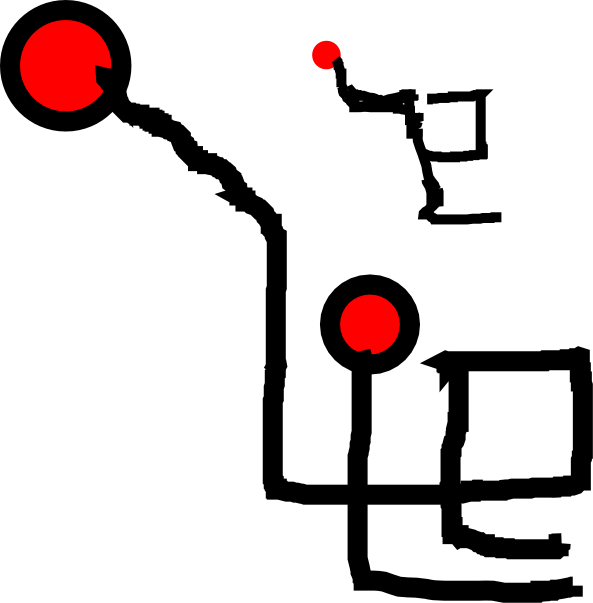
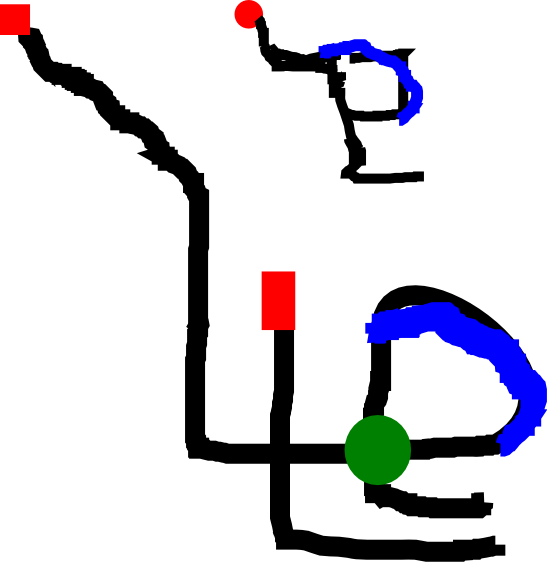
using colors hardcoded colors to find the clusters

Changed region(s): [[0.0, 0.0, 1.0, 1.0], [0.404, 0.0, 0.8391, 0.3932]]

diff --git a/pulse_programming.py b/pulse_programming.py
@@ -3,51 +3,56 @@ import numpy as np
 import cv2
 import scipy.cluster.vq as vq
 
-NUMBER_OF_COLORS = 2
+NUMBER_OF_COLORS = 3
 NUMBER_OF_COLORS += 1 # add background color
 
 image = cv2.imread("pathxxx.png")
 DIMENSIONS = (len(image), len(image[0]))
 
 image = cv2.GaussianBlur(image, (5, 5), 0)
-
+codebook_raw = [[50,50,50], [150,150,150], [50,0,0], [0,50,0], [0,0,50]]
 flat_colors = image.reshape((-1, 3))
-maximum_bright_colors = flat_colors
-#def maximize_color(color):
-#    m = color.sum() / 3
-#    if m == 0:
-#        return (255, 255, 255)
-#    return [int(v * 255 / 3 // m) for v in color]
-#maximum_bright_colors = np.array(list(map(maximize_color, flat_colors)), flat_colors.dtype)
-print("flat_colors", set(map(tuple, flat_colors)))
-whitened_colors = vq.whiten(maximum_bright_colors)
-codebook, distortion = vq.kmeans(whitened_colors, NUMBER_OF_COLORS)
-print("codebook", codebook, "distortion", distortion)
-code, distance = vq.vq(whitened_colors, codebook)
+whitened = vq.whiten(np.concatenate((flat_colors, np.array(codebook_raw, np.uint8))))
+codebook = whitened[len(flat_colors):]
+print("codebook", codebook)
+all_features = whitened[:len(flat_colors)]
+code, distance = vq.vq(all_features, codebook)
+
 reshaped_code = code.reshape(DIMENSIONS)
 print("Assuming background has biggest area.")
-counts = [0] * NUMBER_OF_COLORS
-for cls in code:
-    counts[cls] += 1
-color_usage_indices = list(range(NUMBER_OF_COLORS))
-color_usage_indices.sort(key=lambda i:counts[i])
-background_class = color_usage_indices[-1]
-road_class = color_usage_indices[-2]
-pulse_source_class = color_usage_indices[-3]
+background_class = 1
+road_source_class = 3 # 0
+bridge_source_class =  3
+pulse_source_class = 2
+pump_source_class = 4
 road_image = np.array(
-    [[255 * (col == road_class) for col in row]
+    [[255 * (col == road_source_class) for col in row]
      for row in reshaped_code],
     np.uint8)
 pulse_source_image = np.array(
     [[255 * (col == pulse_source_class) for col in row]
      for row in reshaped_code],
     np.uint8)
+pump_source_image = np.array(
+    [[255 * (col == pump_source_class) for col in row]
+     for row in reshaped_code],
+    np.uint8)
+bridge_source_image = np.array(
+    [[255 * (col == bridge_source_class) for col in row]
+     for row in reshaped_code],
+    np.uint8)
 
 cv2.namedWindow("road_image", cv2.WINDOW_AUTOSIZE)
-cv2.namedWindow("pulse_source_image", cv2.WINDOW_AUTOSIZE)
-
 cv2.imshow("road_image", road_image)
+cv2.namedWindow("pulse_source_image", cv2.WINDOW_AUTOSIZE)
 cv2.imshow("pulse_source_image", pulse_source_image)
+cv2.namedWindow("pump_source_image", cv2.WINDOW_AUTOSIZE)
+cv2.imshow("pump_source_image", pump_source_image)
+cv2.namedWindow("bridge_source_image", cv2.WINDOW_AUTOSIZE)
+cv2.imshow("bridge_source_image", bridge_source_image)
+
+cv2.waitKey(0)
+exit(0)
 
 # pulse generation
 pulse0 = zeros = np.zeros(DIMENSIONS, np.uint8)
@@ -59,7 +64,7 @@ border_element = np.array([[1,1,1],[1,1,1],[1,1,1]], np.uint8)
 def pulse(state):
     pulse1, pulse0 = state
     pulse2 = cv2.dilate(pulse1, pulse_element)
-
+    pulse2 = cv2.subtract(pulse2, pulse0)
     pulse2 = cv2.bitwise_and(pulse2, expansion_room)
     return pulse2, pulse1
 
